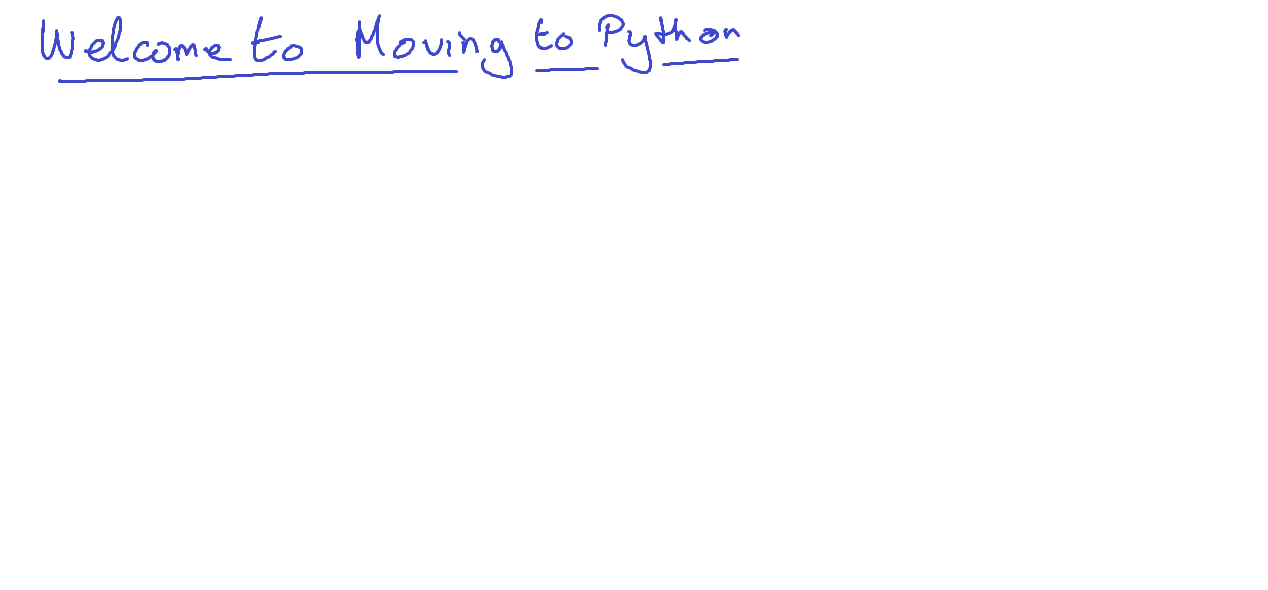
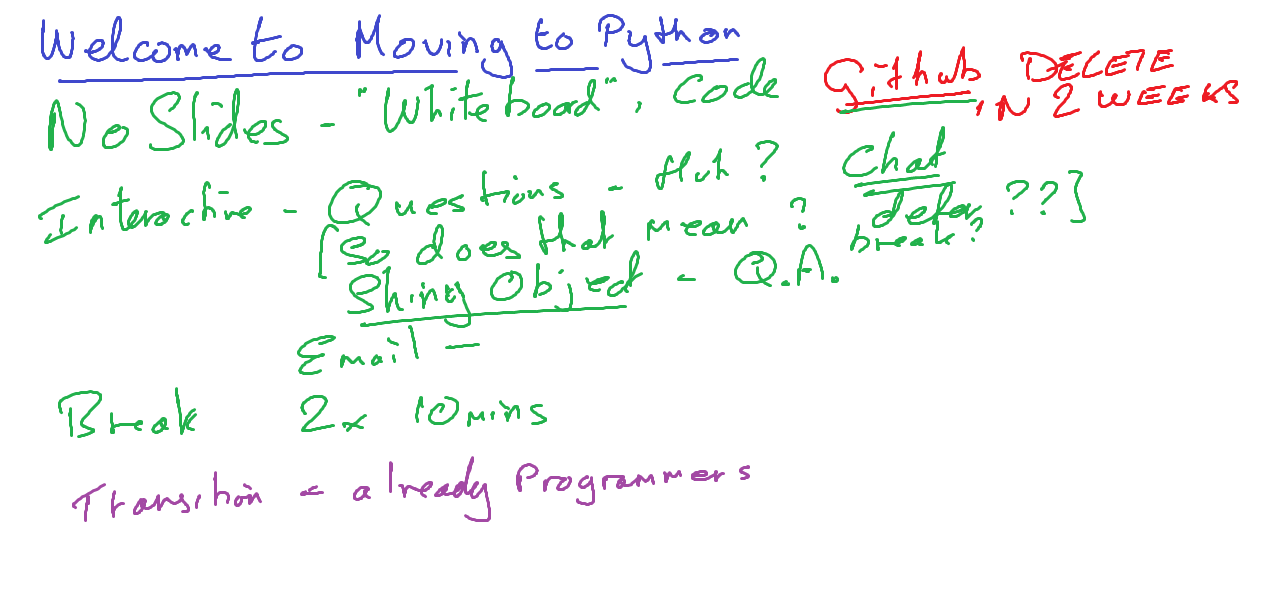
Break One

diff --git a/number2.py b/number2.py
@@ -1,0 +1,36 @@
+x = True
+print(x)
+
+print(str(True))
+print(int(True))
+
+# if (1):
+# if ([]):
+if ([1,2]):
+    print("truthy")
+else:
+    print("falsy")
+
+l = [0, 1, 2, 3, 4, 5, 6, 7]
+print(type(l))
+print(l)
+print(l[0])
+
+# print(l[len(l)-1])
+print(l[-2])
+
+print(l[3:6])
+print(l[2:8:2]) # make a new list, starting at index 2, ending "before" index 8, taking every second element
+print(l[::2])
+
+l[2] = 99
+print(l)
+# print(l[99])
+# l[99] = 99
+
+l.sort()
+print(l)
+l.sort(reverse=True)
+# l.sort(key=..., reverse=True)
+print(l)
+print(type(l.sort()))

diff --git a/test.py b/test.py
@@ -1,0 +1,40 @@
+x = 0b0101010
+print(x)
+print(type(x))
+print(None)
+print(type(None))
+
+x = "Hello"
+x = 'Hello'
+x = x + "banana" \
+        " peel"
+x = "'ullo, "
+x = x * 3
+print(x)
+
+y = 99
+out = f"the value of y is {y}"
+print(out)
+
+out = "The value of y is " + str(y)
+print(out)
+
+y = "99.9"
+z = float(y) + 100
+print(z)
+
+print(type(10), type(3))
+print(10/3)
+print(10//3)
+print(10.5//3)
+
+x = 5
+x += 3 # x = x + 3
+print(x)
+
+x = "hello"
+# y = "he"
+# y = y + "llo"
+y = "hello"
+print(x == y)
+print(x is y)
